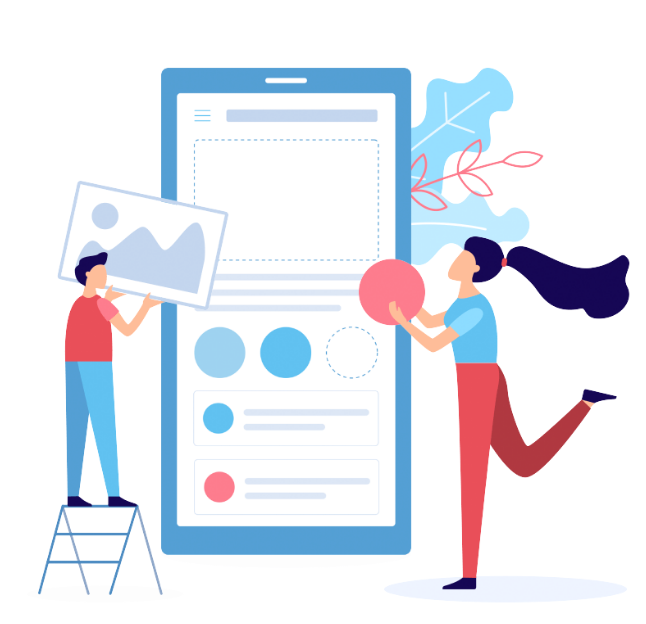
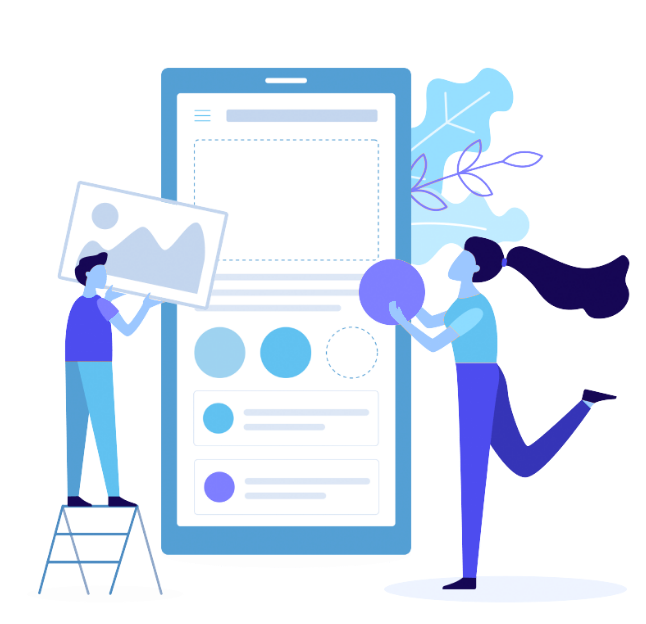
Recolor hero illustration warm accents to purple-blue; add sharp script
Made-with: Cursor

diff --git a/app/globals.css b/app/globals.css
@@ -198,9 +198,9 @@ input[type="radio"]:focus-visible {
   border-radius: 12px;
 }
 
-/* Homepage hero illustration — stock art blues/reds nudged toward brand purple–sky */
+/* Homepage hero illustration — asset uses brand blues/purples; light polish only */
 .home-hero-illustration {
-  filter: saturate(1.08) hue-rotate(14deg) contrast(1.02);
+  filter: saturate(1.05) contrast(1.02);
 }
 
 .home-hero-illustration-tint {
@@ -220,7 +220,7 @@ input[type="radio"]:focus-visible {
 
 @media (prefers-color-scheme: dark) {
   .home-hero-illustration {
-    filter: brightness(0.93) saturate(1.12) hue-rotate(8deg) contrast(1.04);
+    filter: brightness(0.94) saturate(1.08) contrast(1.03);
   }
 
   .home-hero-illustration-tint {
